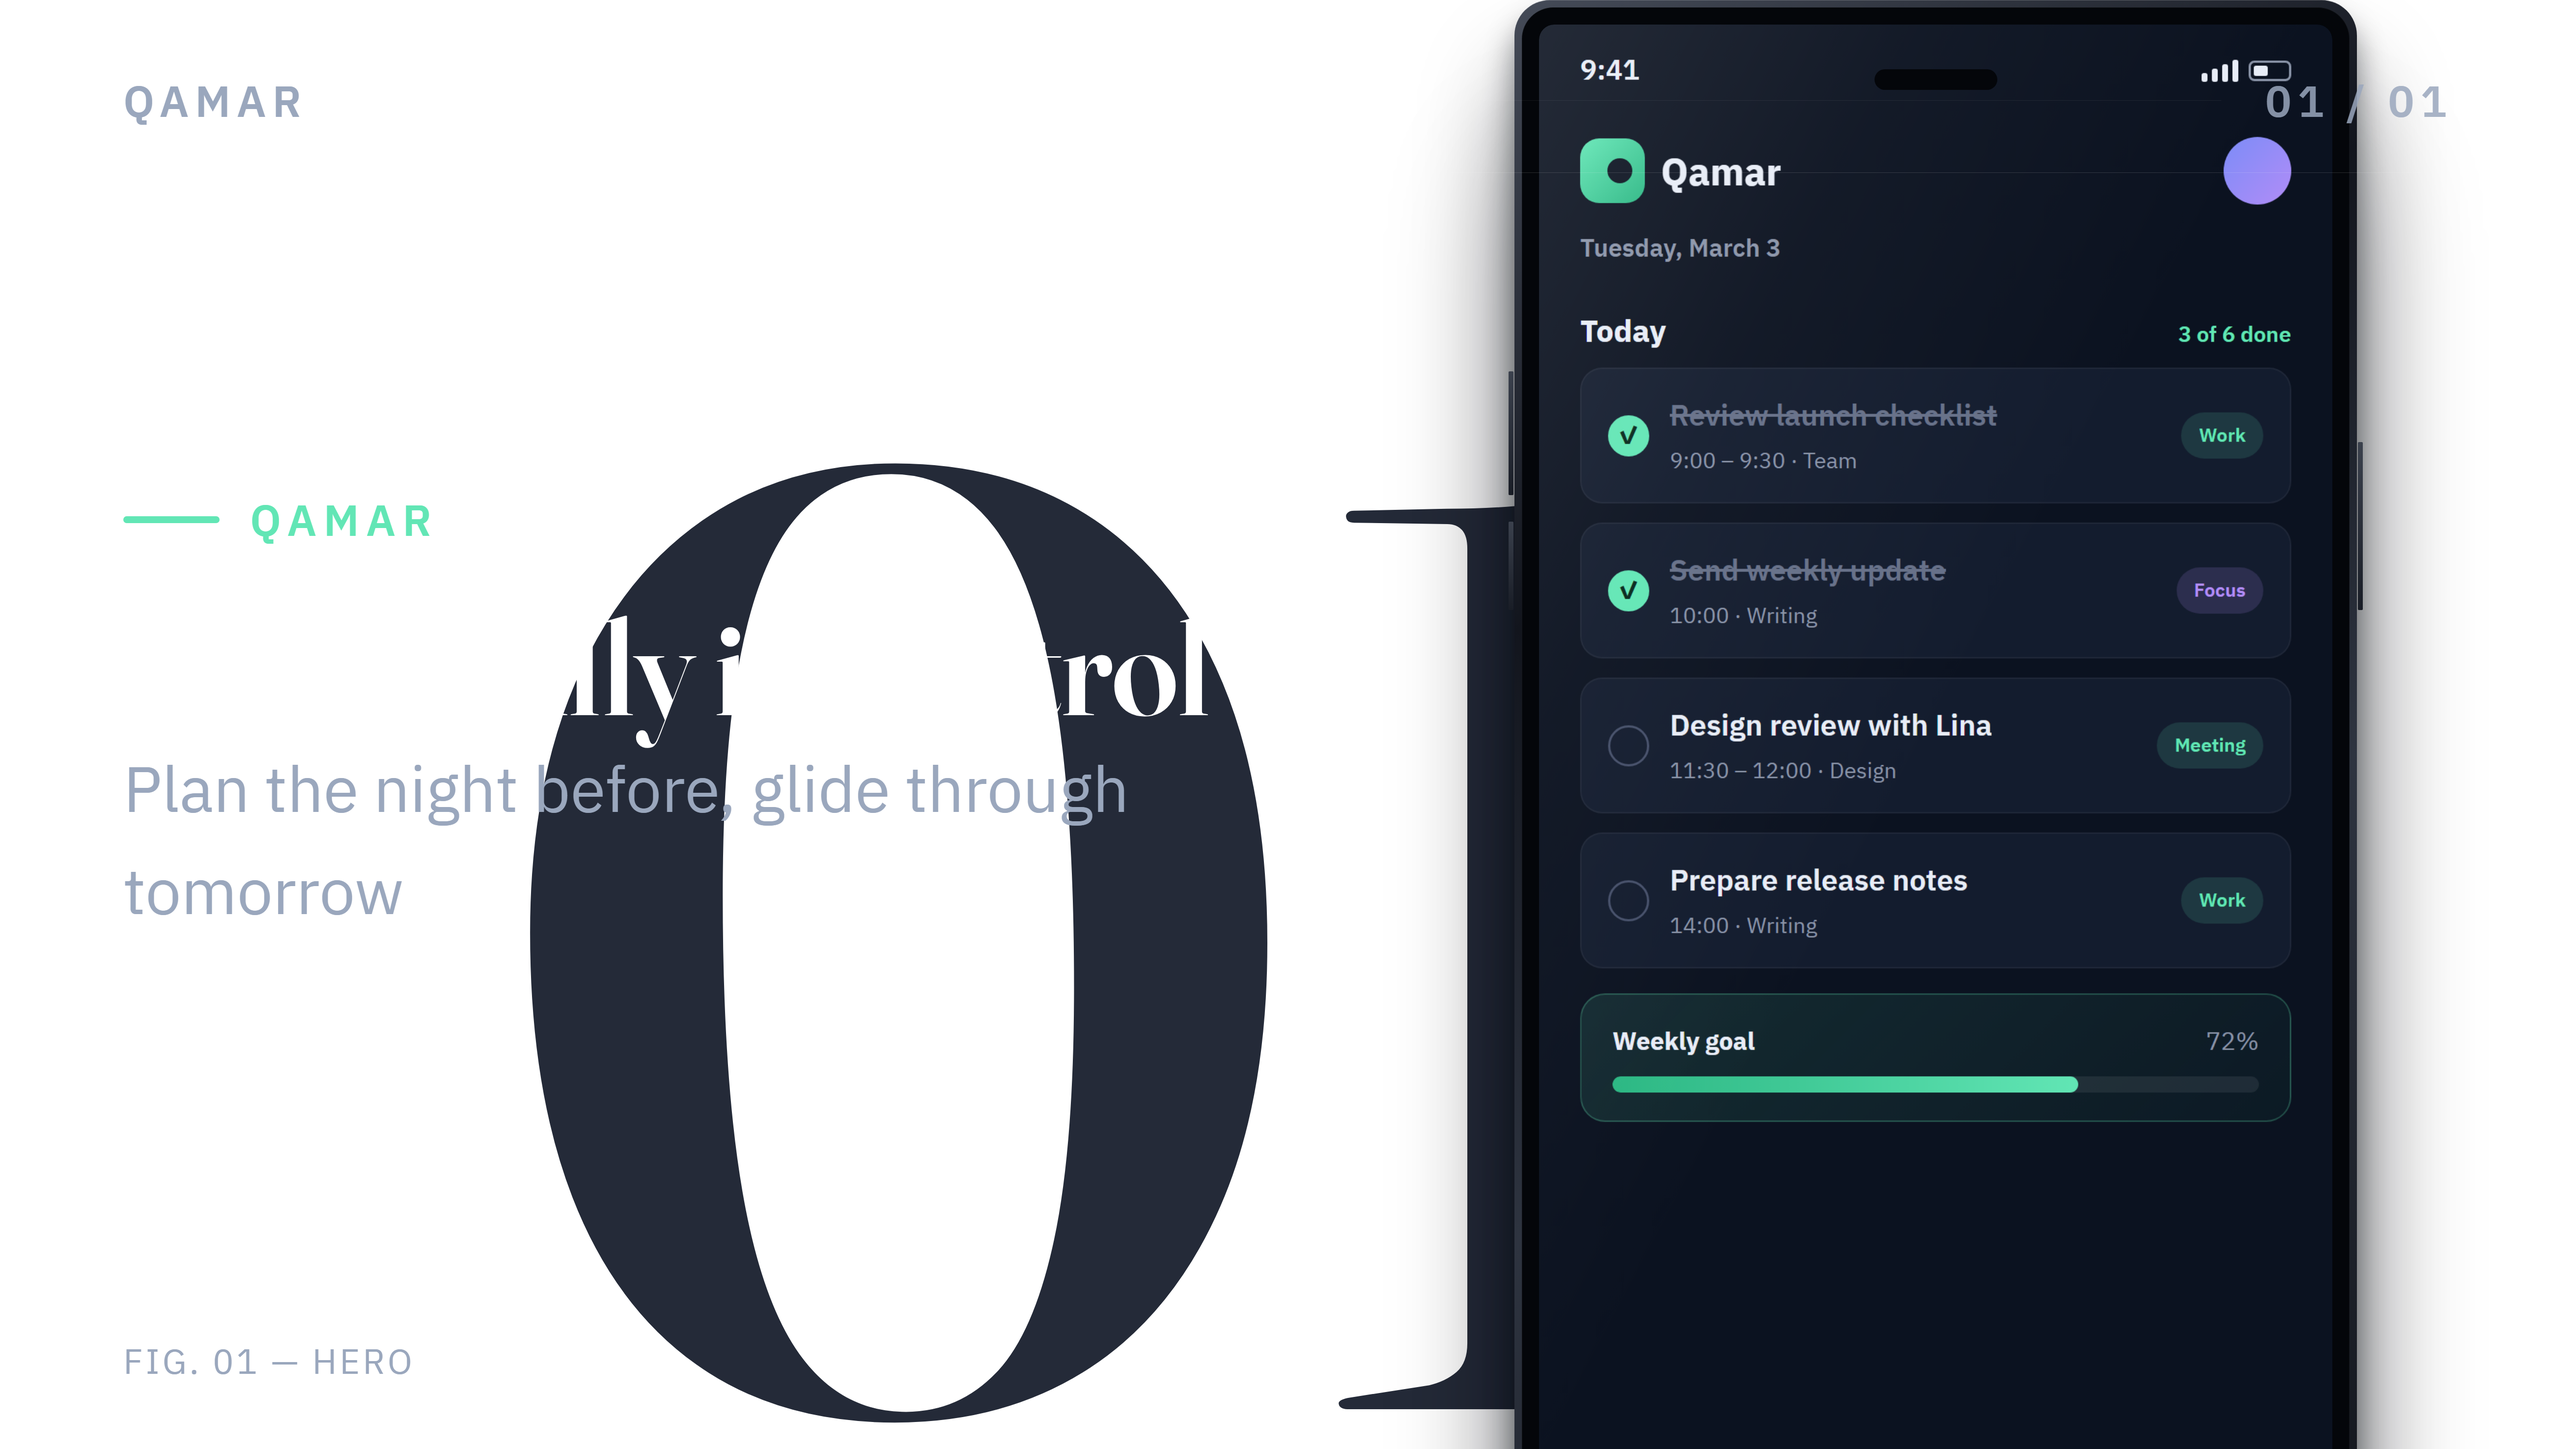
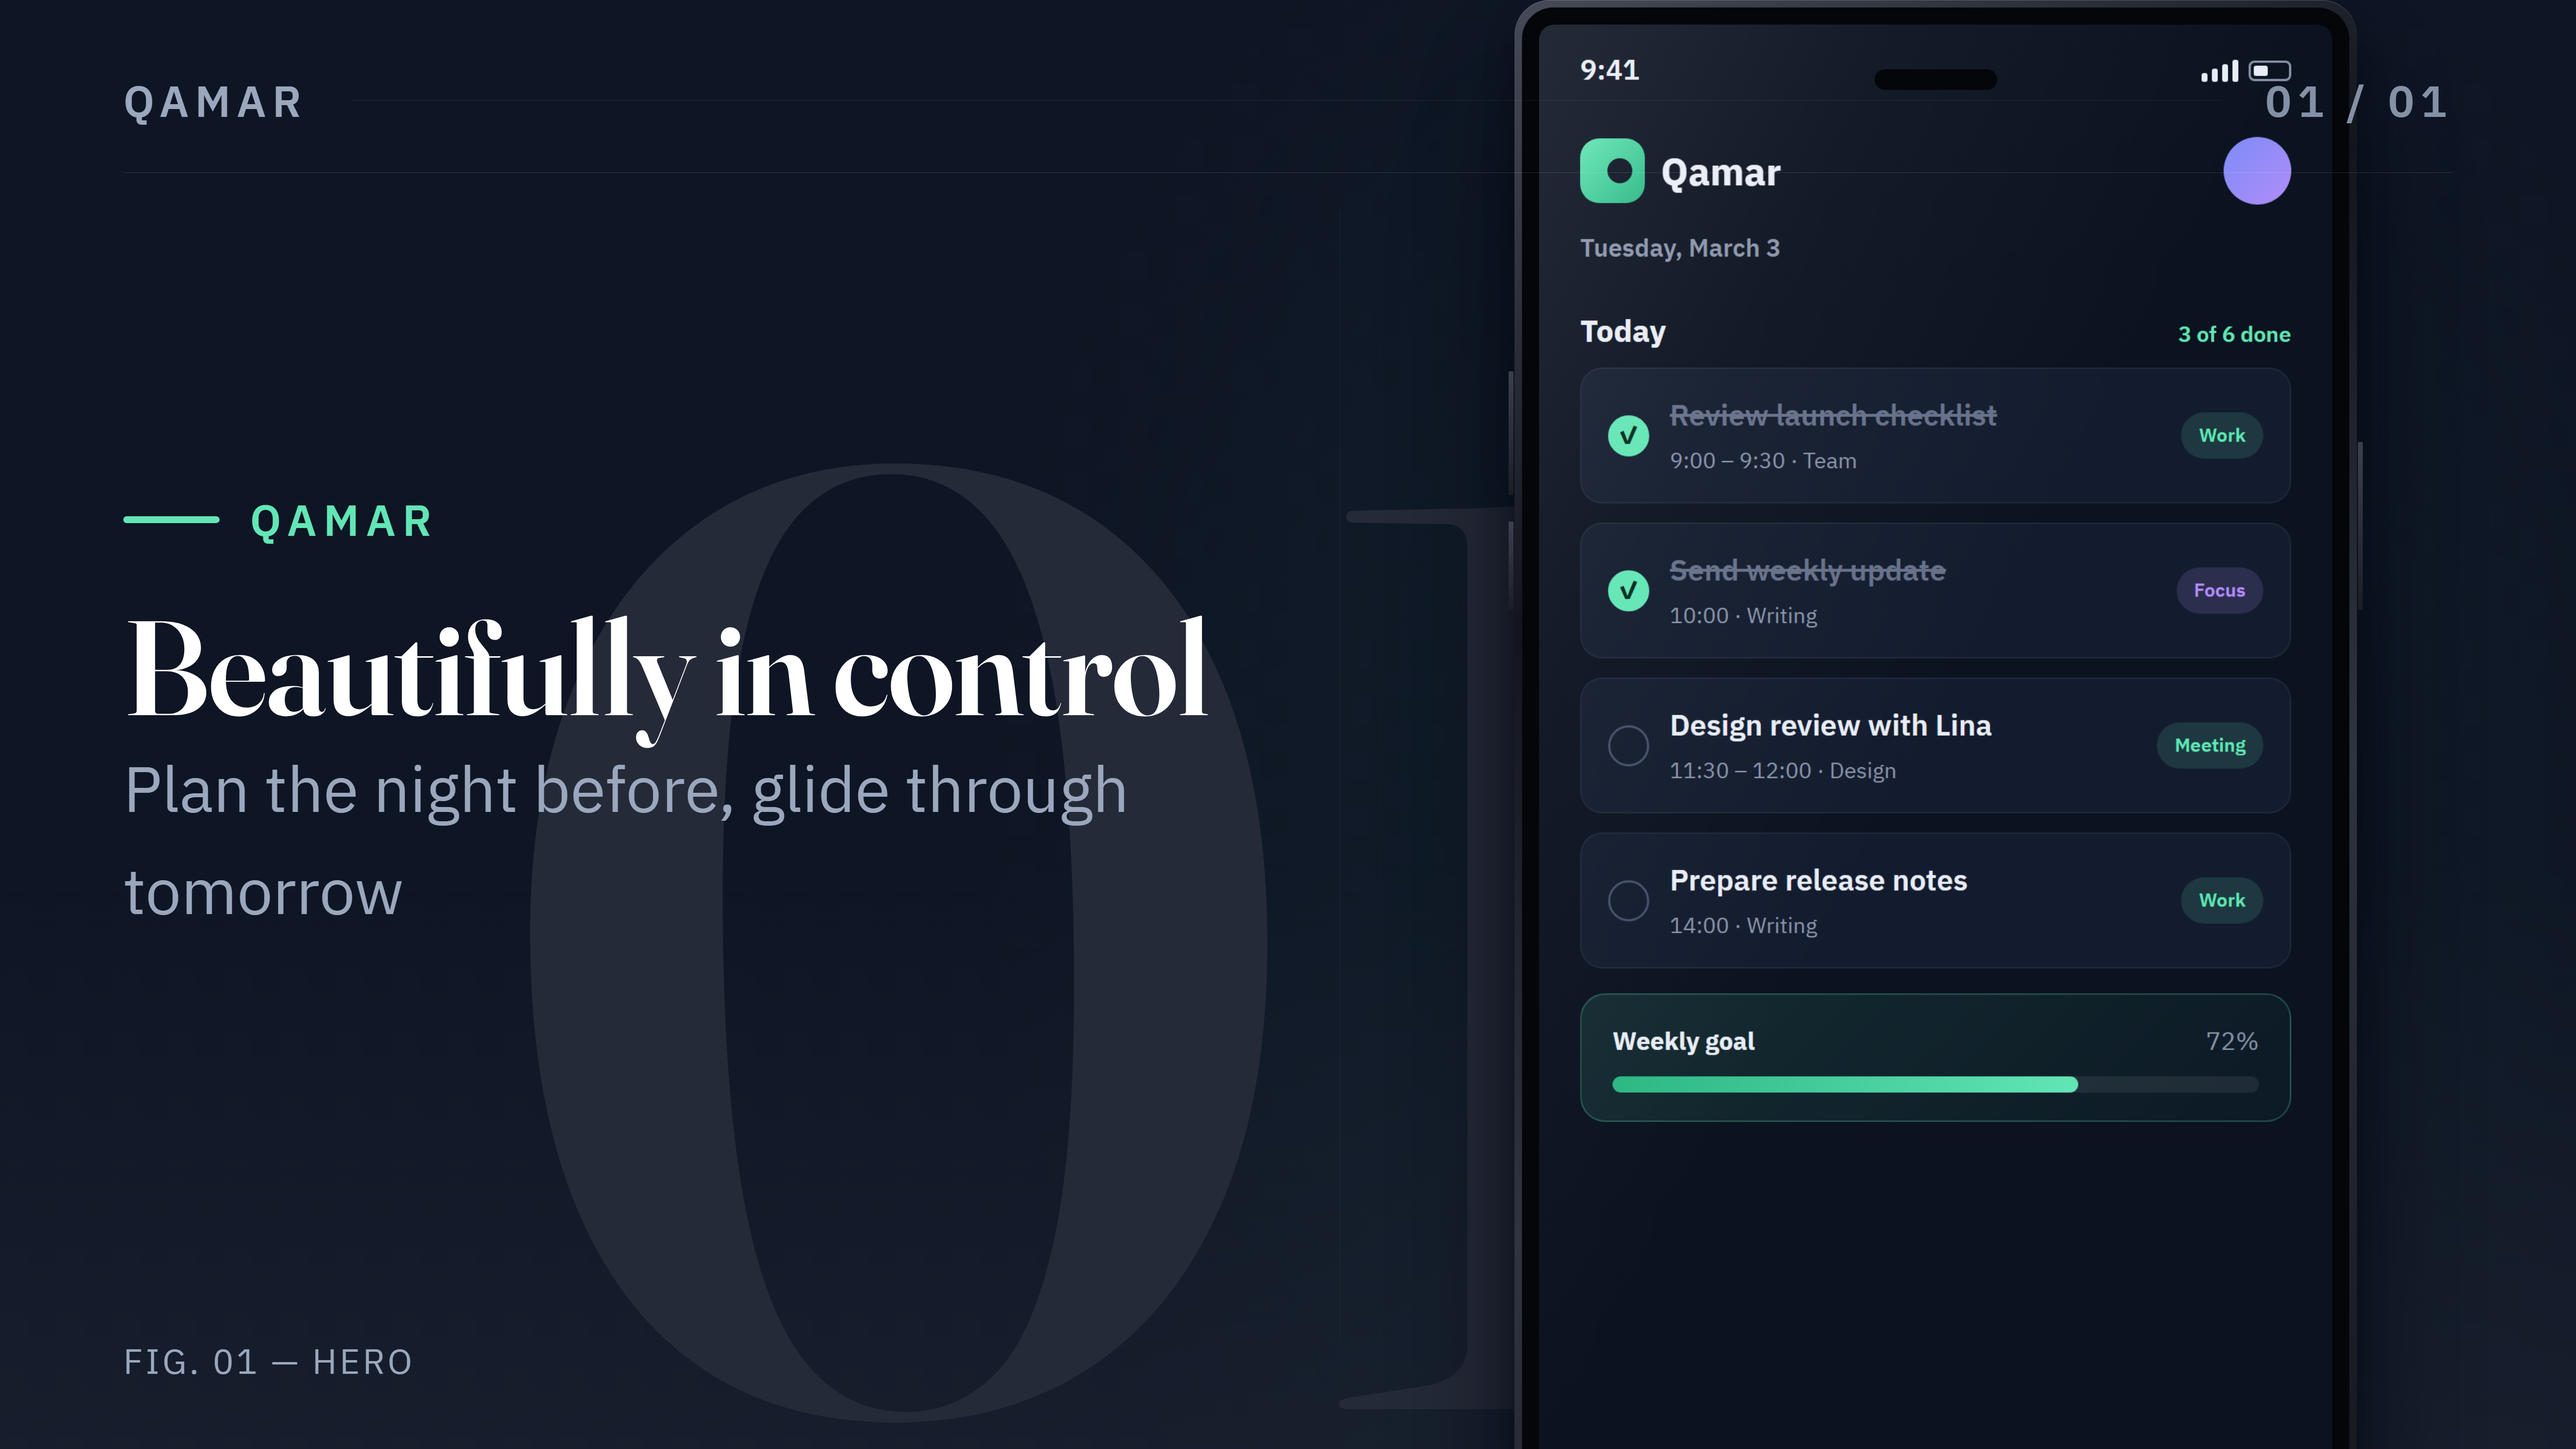
Fix white-canvas root cause: template variant roots never painted the canvas
Pixel forensics on shipped renders showed Discovery outputs 56-61% pure
#ffffff with white-on-white invisible headlines. Root cause: variant
roots (.shot-discovery.a/.b/.c and several -b variants) never set
position/inset, so the root collapsed to zero height and painted nothing —
the white body background showed instead.

Fix: base CSS now pins every .shot root to the full canvas
(position:absolute; inset:0; overflow:hidden), so every variant paints
regardless of its class names. Verified by pixel profiling: discovery
renders now 6-7% dominant flat color (rich compositions) on the dark
theme; headline and device both present.

Also adds docs/gallery/showdown — three finished single-frame concepts at
1206x2622 rendered by the CLI: A dark cinematic (16% flat), B bold
brand-green editorial (30%), C premium light swiss (60% — deliberate
light negative space). Baselines regenerated; 134 tests green.

diff --git a/src/render/html.ts b/src/render/html.ts
@@ -63,6 +63,12 @@ img {
 .t-text {
   display: inline-block;
 }
+/* Every template root paints the full canvas, whatever its variant class. */
+.shot {
+  position: absolute;
+  inset: 0;
+  overflow: hidden;
+}
 `;
 
 export function fontStack(dir: TextDirection): string {
